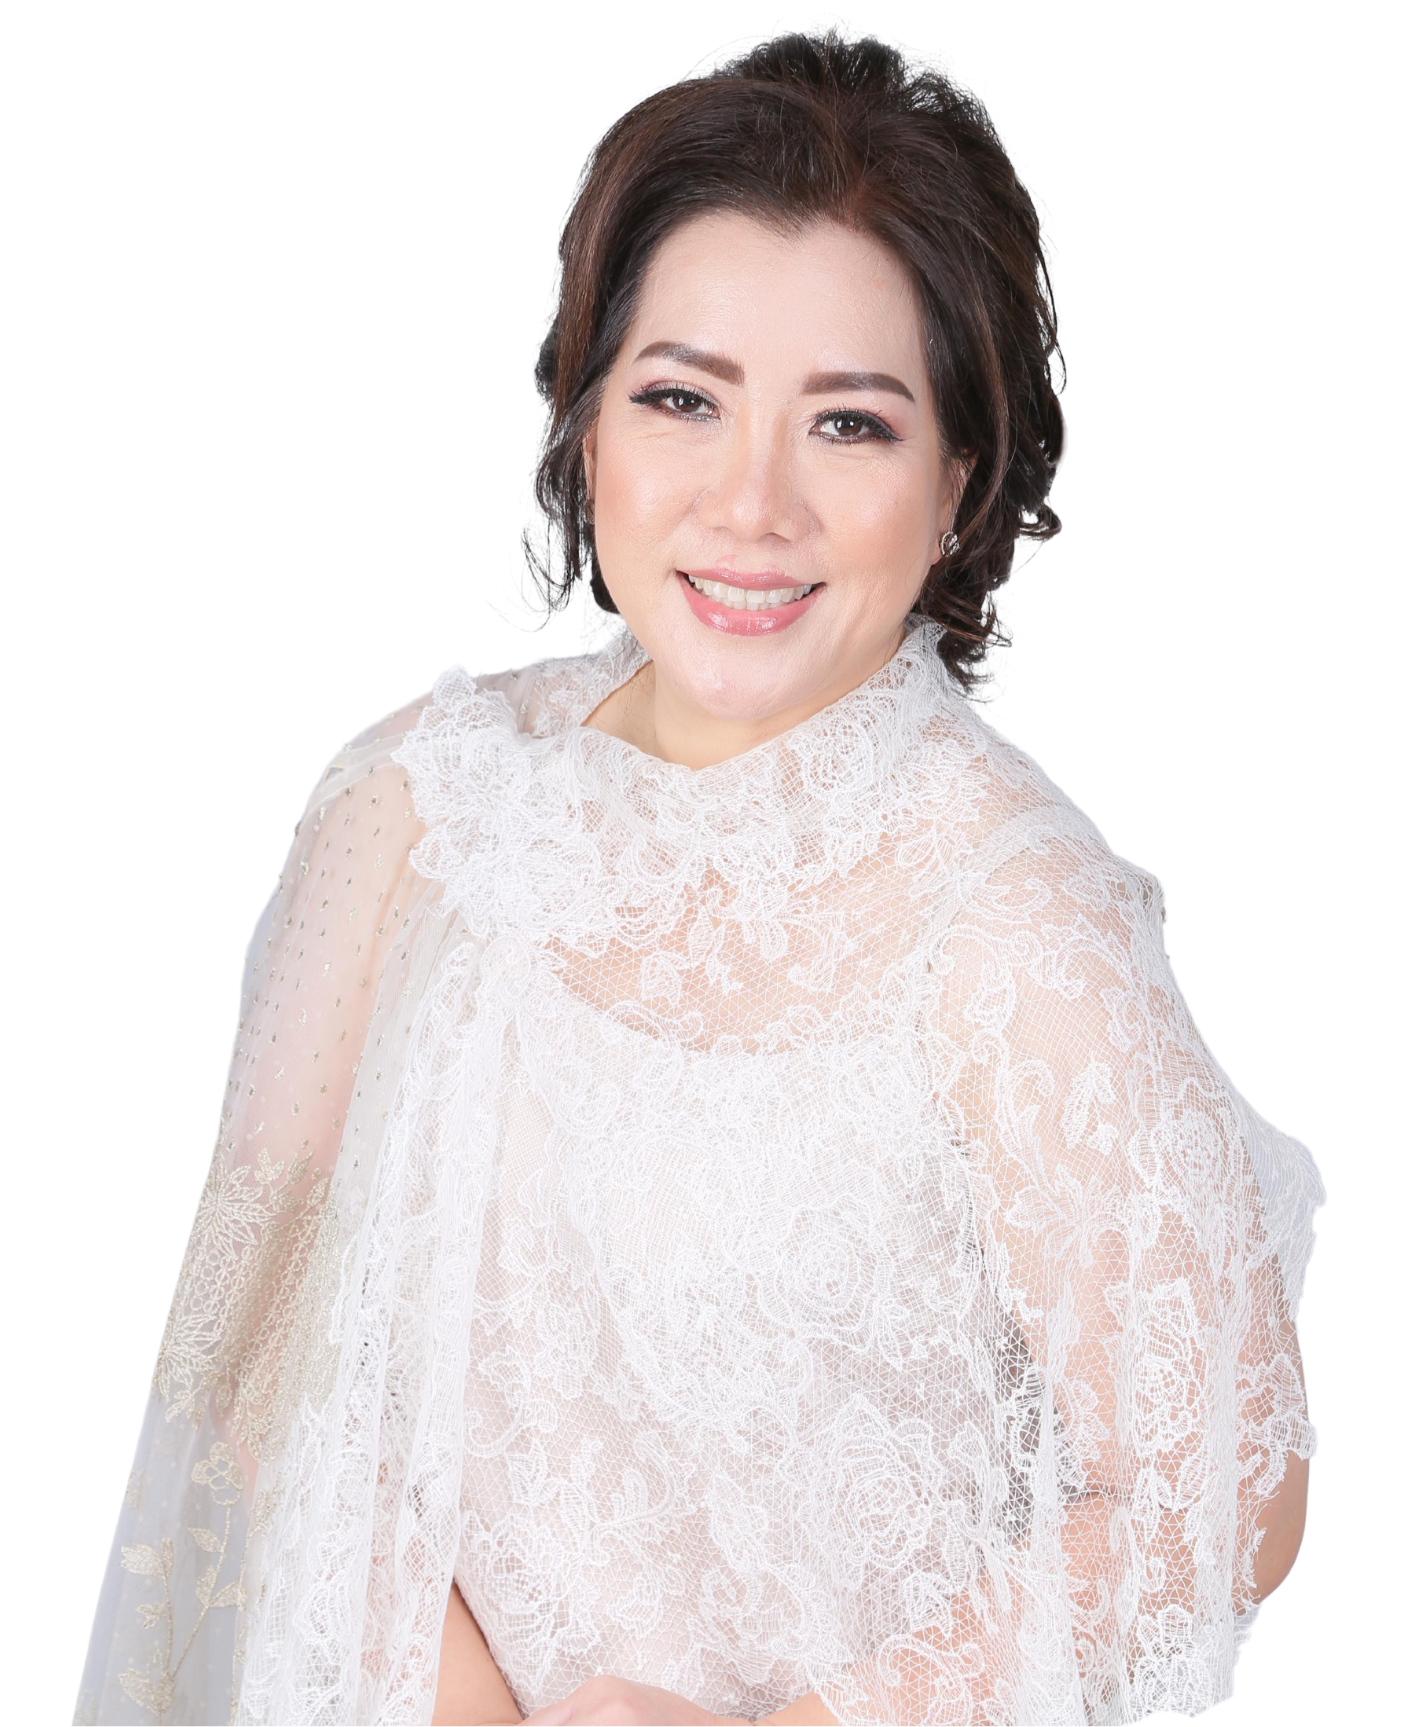
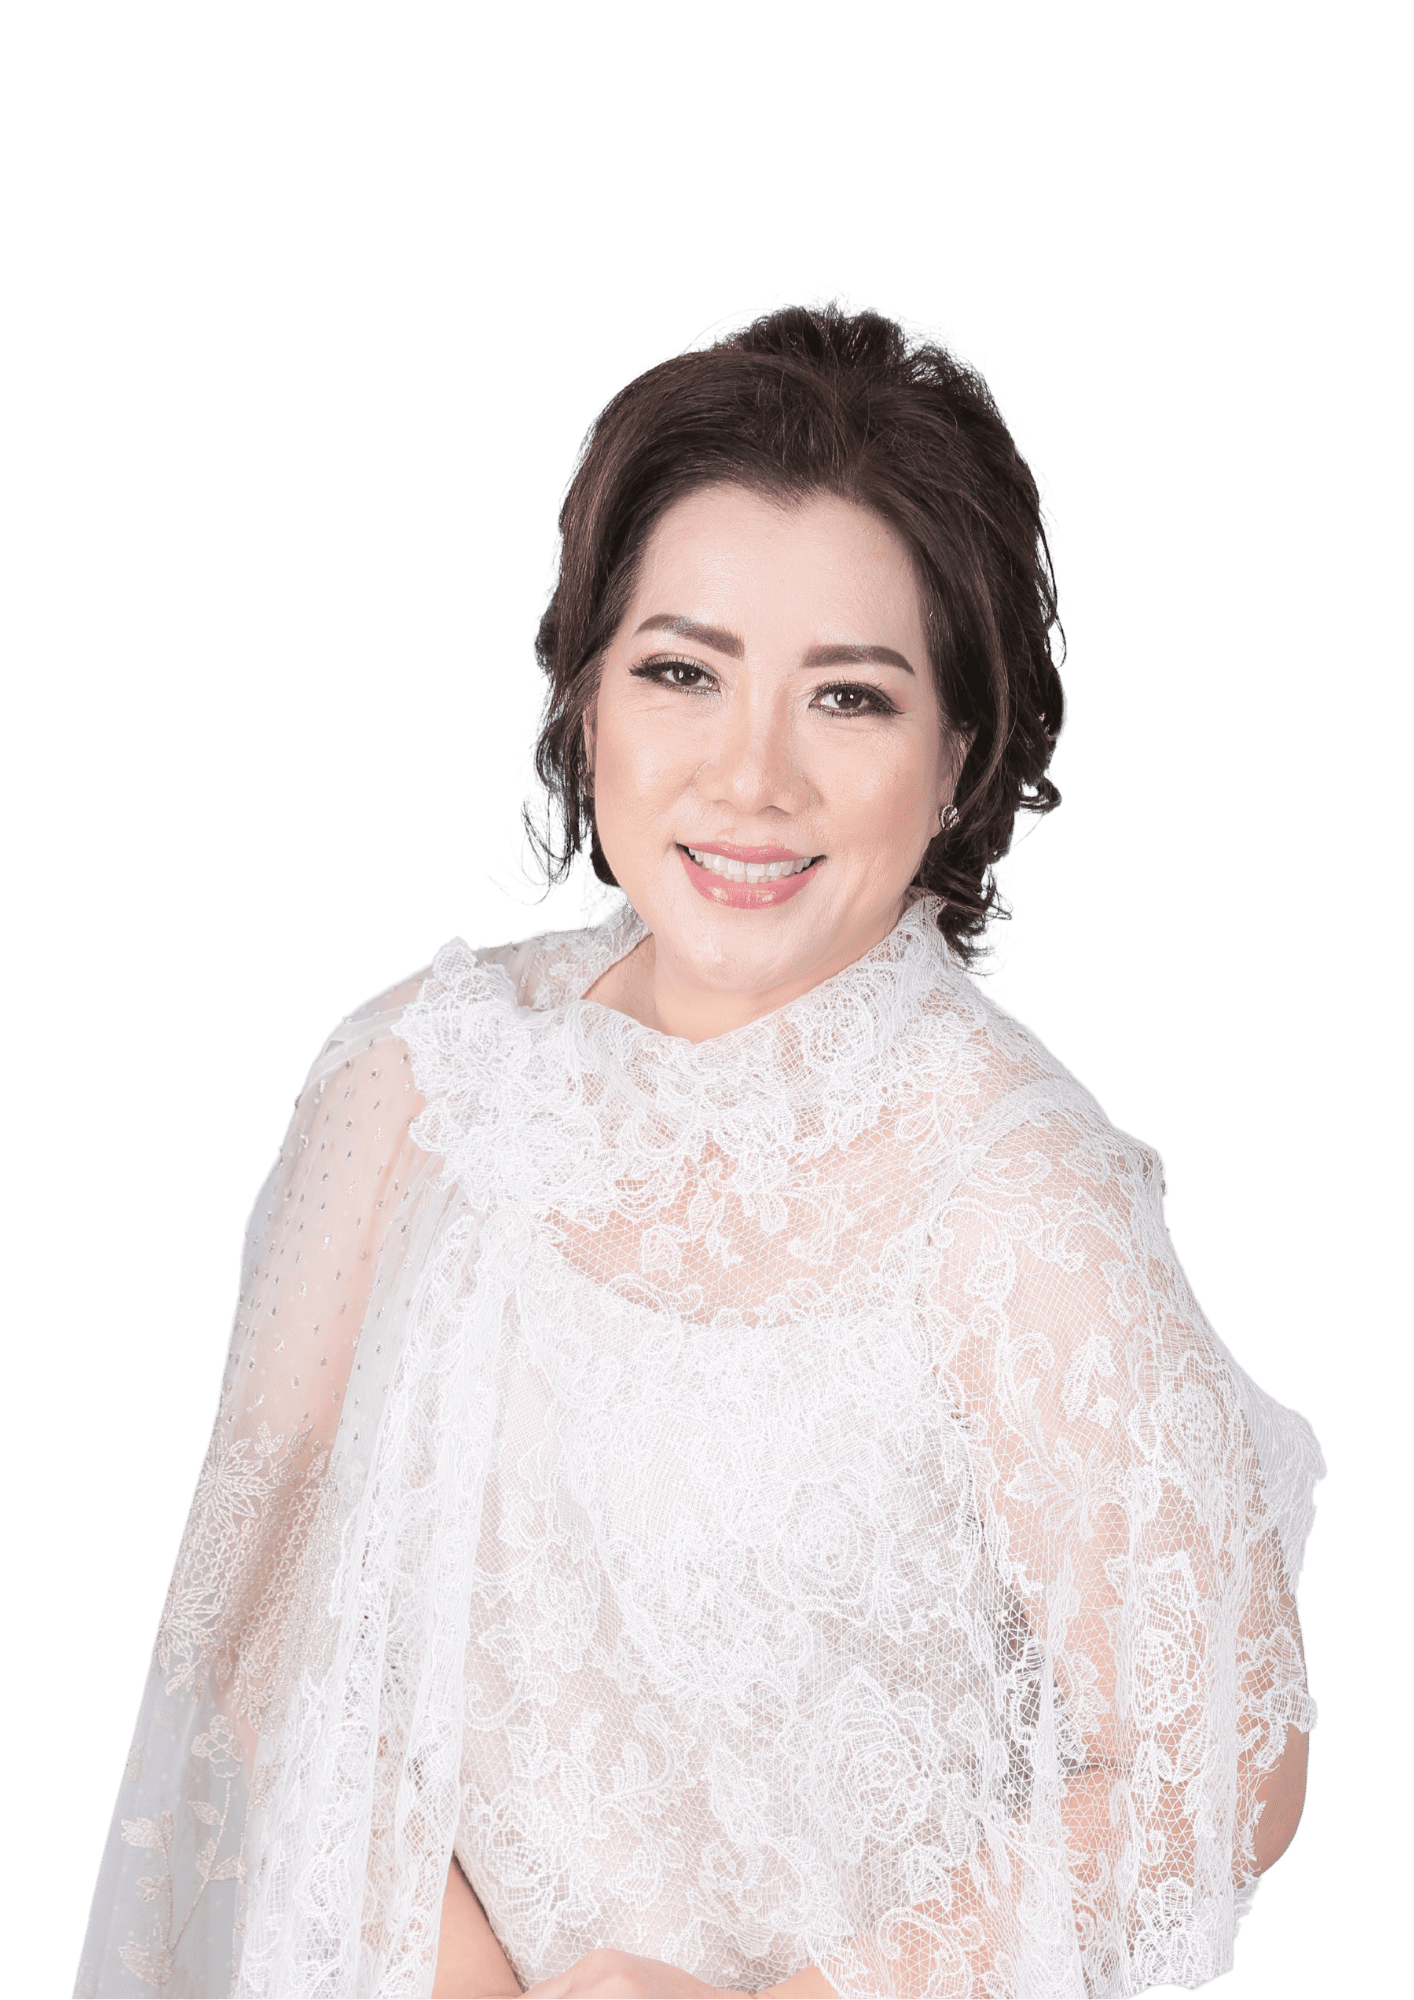
created robots and sitemap

diff --git a/src/styles/global.css b/src/styles/global.css
@@ -9,13 +9,107 @@
 @plugin "flowbite/plugin";
 @source "../../node_modules/flowbite";
 
-/* Swiper */
-@import "swiper/css";
-@import "swiper/css/navigation";
-@import "swiper/css/thumbs";
-@import "swiper/css/free-mode";
-
 /* Fonts */
 @import "@fontsource/poppins/300.css";
 @import "@fontsource/poppins/400.css";
 @import "@fontsource/poppins/500.css";
+
+body {
+  font-family: "Poppins", sans-serif;
+}
+
+/* ── Scroll Progress Bar ── */
+#scroll-progress {
+  position: fixed;
+  top: 0;
+  left: 0;
+  height: 2px;
+  width: 0%;
+  z-index: 9999;
+  background: #d23439;
+  transition: width 0.1s linear;
+  pointer-events: none;
+}
+
+/* Hide scrollbar (Chrome, Safari, Opera) */
+.scrollbar-hide::-webkit-scrollbar {
+  display: none;
+}
+
+/* Hide scrollbar (IE, Edge, Firefox) */
+.scrollbar-hide {
+  -ms-overflow-style: none;
+  scrollbar-width: none;
+}
+
+.line-clamp-2 {
+  display: -webkit-box;
+  -webkit-line-clamp: 2;
+  -webkit-box-orient: vertical;
+  overflow: hidden;
+}
+
+/* Animasi-product */
+@keyframes fadeIn {
+  from {
+    opacity: 0;
+    transform: translateY(10px);
+  }
+  to {
+    opacity: 1;
+    transform: translateY(0);
+  }
+}
+
+.animate-fade-in {
+  animation: fadeIn 0.4s ease-out;
+}
+
+.product-item {
+  transition:
+    opacity 0.3s ease,
+    transform 0.3s ease;
+}
+
+.product-item.hidden {
+  opacity: 0;
+  transform: scale(0.95);
+  pointer-events: none;
+}
+
+/* ======= Search ========== */
+.search-result-item {
+  display: flex;
+  gap: 1rem;
+  padding: 1rem;
+  border-radius: 0.5rem;
+  transition: background-color 0.2s;
+  cursor: pointer;
+}
+
+.search-result-item:hover {
+  background-color: #f9fafb;
+}
+
+/* Key */
+@keyframes slideIn {
+  from {
+    transform: translateX(150%);
+    opacity: 0;
+  }
+  to {
+    transform: translateX(0);
+    opacity: 1;
+  }
+}
+.animate-slide-in {
+  animation: slideIn 0.5s ease-out;
+}
+
+/* Toast */
+.toast.show {
+  display: flex !important;
+  opacity: 1 !important;
+  transform: translateY(0) !important;
+  pointer-events: auto !important;
+}
